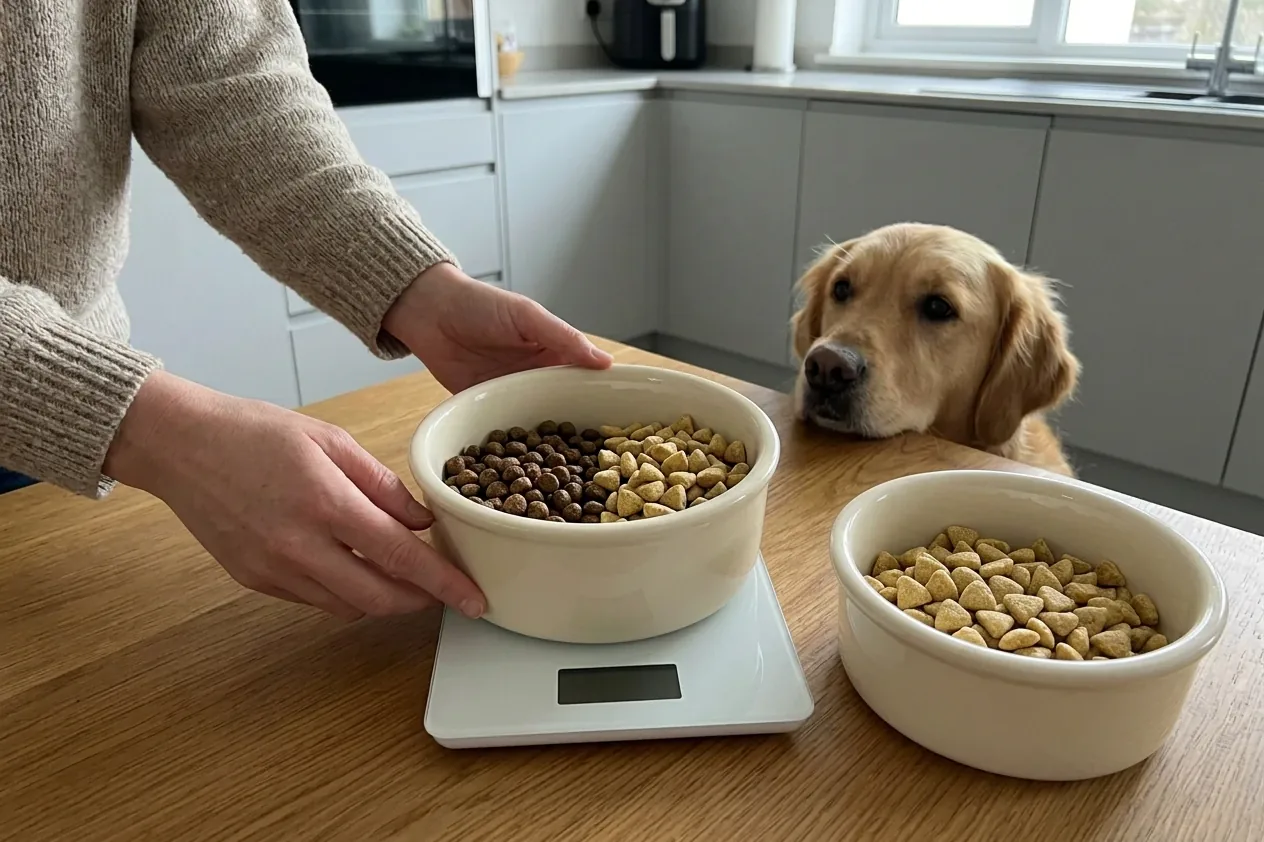
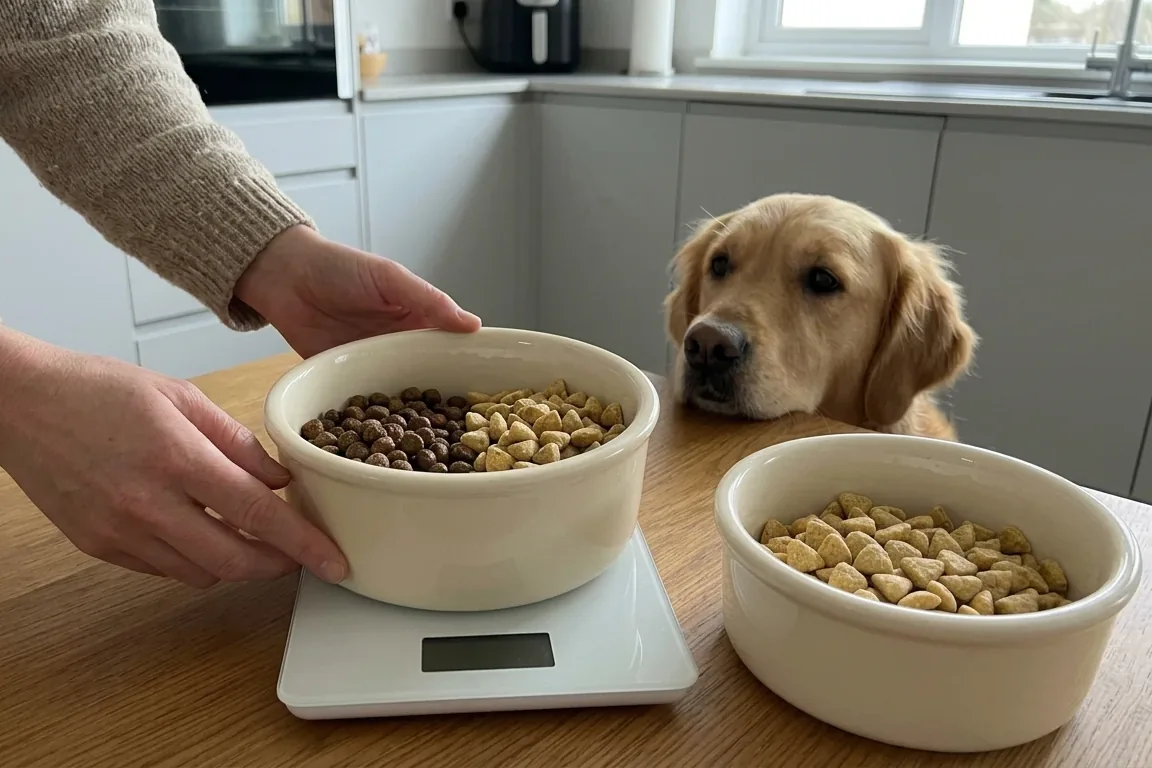
Blog: realistickejšia fotka váženia v článku o prechode na nové granule
Claude-Session: https://claude.ai/code/session_017QiUU5uYSnEDtCskVPPG3D

diff --git a/public/granula/blog/posts.js b/public/granula/blog/posts.js
@@ -22,7 +22,7 @@ window.GRANULA_POSTS = {
    ]
   }
  ],
- "built": "2026-11-24 16:45",
+ "built": "2026-11-24 16:49",
  "base": "https://www.granula.sk",
  "problems": [],
  "posts": [
@@ -157,7 +157,7 @@ window.GRANULA_POSTS = {
      "ok": true,
      "msg": "Viditeľný changelog: prvý záznam má dátum aktualizácie",
      "details": [
-      "2026-11-24: Nová, realistickejšia hlavná fotka a fotka presýpania granúl (ilustrácie vygenerované AI)",
+      "2026-11-24: Nové, realistickejšie fotky: hlavná, presýpanie a váženie granúl (ilustrácie vygenerované AI)",
       "2026-11-24: Štylistická korektúra: prirodzenejší slovosled a formulácie krokov",
       "2026-11-24: Hinty z veterinárnej praxe (len všeobecné, podložené zdrojmi)"
      ]

diff --git a/content/blog/_src/ako-spravne-prejst-na-nove-granule.md b/content/blog/_src/ako-spravne-prejst-na-nove-granule.md
@@ -23,7 +23,7 @@ key_points:
   - "Staré a nové granule miešaj podľa gramov, nie podľa odmerky."
   - "Najčastejšia chyba: držať sa kalendára. Ďalší krok urob, až keď má pes pevnú stolicu."
 changelog:
-  - "2026-11-24: Nová, realistickejšia hlavná fotka a fotka presýpania granúl (ilustrácie vygenerované AI)"
+  - "2026-11-24: Nové, realistickejšie fotky: hlavná, presýpanie a váženie granúl (ilustrácie vygenerované AI)"
   - "2026-11-24: Štylistická korektúra: prirodzenejší slovosled a formulácie krokov"
   - "2026-11-24: Hinty z veterinárnej praxe (len všeobecné, podložené zdrojmi)"
   - "2026-11-24: Zdroje pri prvej zmienke predstavené (kto to je a prečo mu veriť)"
